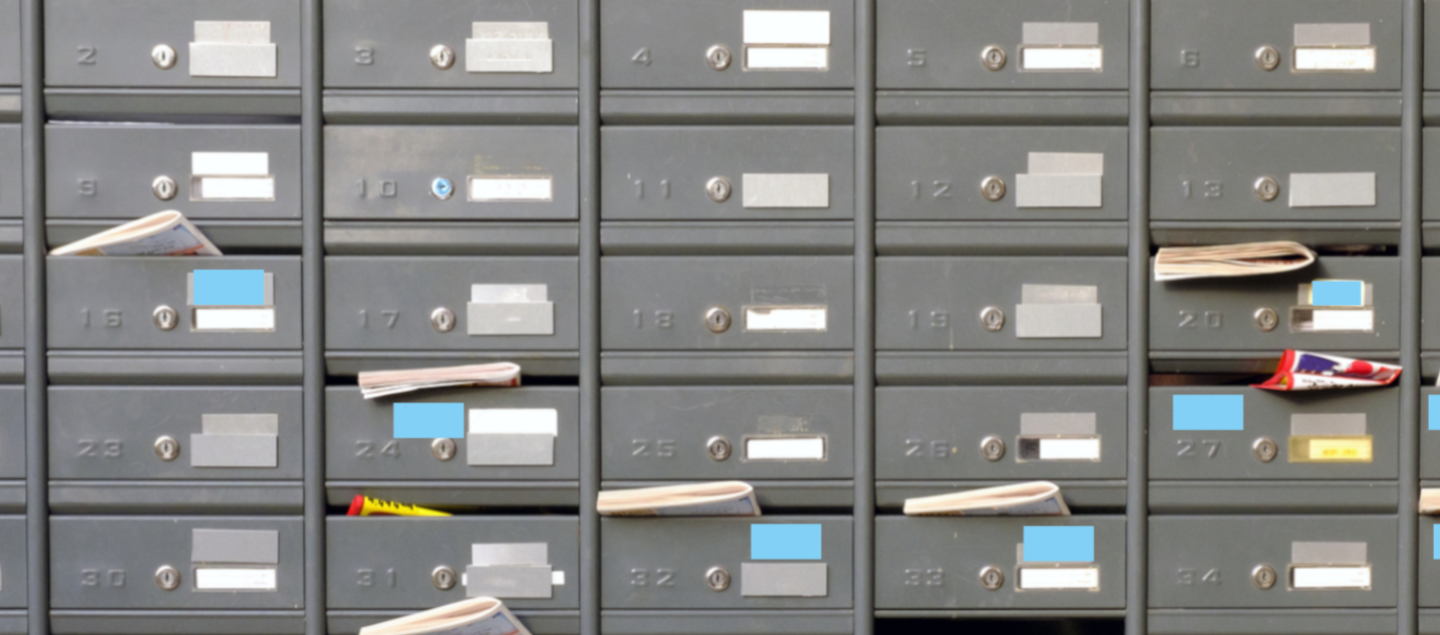
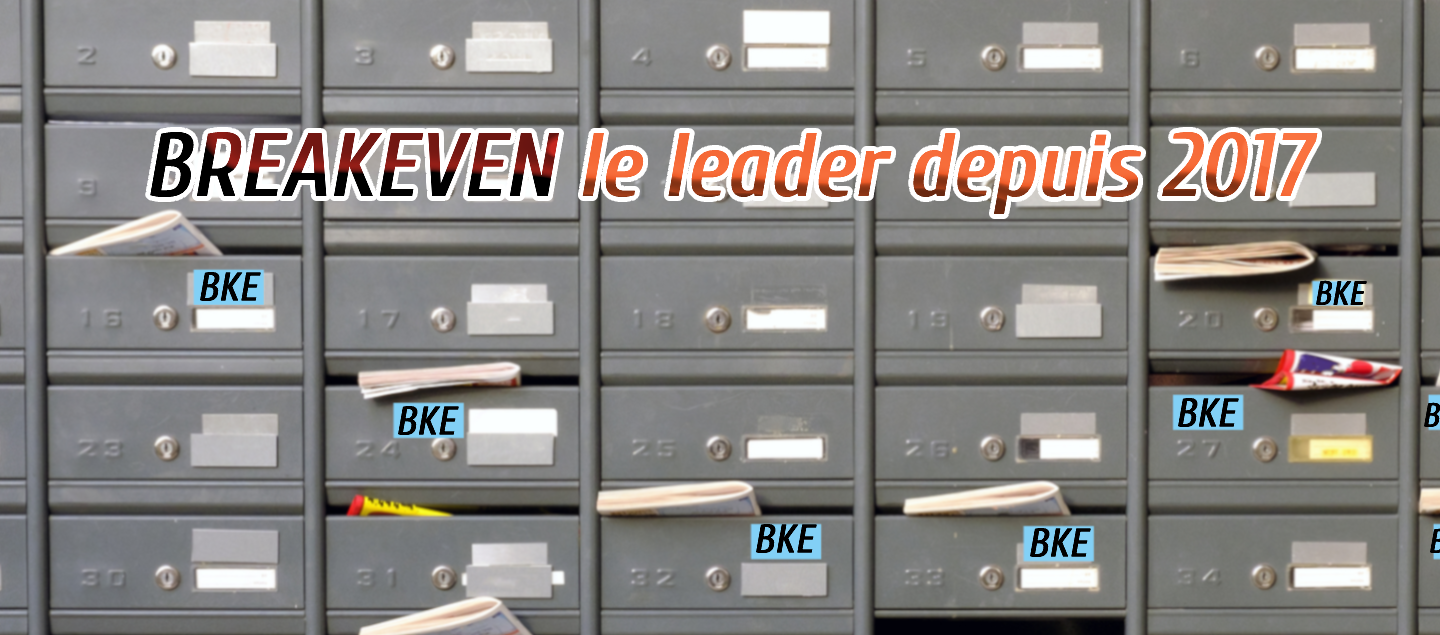
last today

diff --git a/index.html b/index.html
@@ -66,7 +66,7 @@
                 <ion-icon name="menu-outline" aria-hidden="true"></ion-icon>
             </button>
 
-            <a href="#" class="btn btn-primary">Nous contacter</a>
+            <a href="mailto:contact@breakeven.ma" class="btn btn-primary">Nous contacter</a>
 
             <div class="overlay" data-nav-toggler data-overlay></div>
 
@@ -83,19 +83,19 @@
                 <div class="mySlides fade">
                     <!-- <div class="numbertext">1 / 3</div> -->
                     <img src="./assets/images/slide1.png" style="width:100%">
-                    <div class="text">Breakeven.ma</div>
+                    <!-- <div class="text">Breakeven.ma</div> -->
                 </div>
 
                 <div class="mySlides fade">
                     <!-- <div class="numbertext">2 / 3</div> -->
                     <img src="./assets/images/slide2.png" style="width:100%">
-                    <div class="text">1ére distributeur de flayer au maroc</div>
+                    <!-- <div class="text">1ére distributeur de flayer au maroc</div> -->
                 </div>
 
                 <div class="mySlides fade">
                     <!-- <div class="numbertext">3 / 3</div> -->
                     <img src="./assets/images/slide3.png" style="width:100%">
-                    <div class="text">Couvre tout le royaume</div>
+                    <!-- <div class="text">Couvre tout le royaume</div> -->
                 </div>
 
             </div>
@@ -126,7 +126,7 @@
                             présent sur le marché Marocain depuis 2017.
                         </p>
 
-                        <button class="btn btn-secondary"><a href="mailto:medmakhtout@gmail.com">Commencer</a></button>
+                        <button class="btn btn-secondary"><a href="mailto:contact@breakeven.ma">Nous contacter</a></button>
 
                     </div>
 
@@ -187,7 +187,7 @@
                                 </h3>
 
                                 <p class="card-text">
-                                    Vous disposez d'un fichier prêt à l'impression et êtes à la recherche d'un imprimeur
+                                    Vous disposez d'un fichier prêt à l'impression et êtes-vous à la recherche d'un imprimeur
                                     de qualité?.
                                 </p>
 
@@ -726,6 +726,39 @@
                                     </a>
 
                                 </div> -->
+
+                            </div>
+                        </li>
+
+                        <li>
+                            <div class="project-card">
+
+                                <figure class="card-banner img-holder" style="--width: 615; --height: 391;">
+                                    <img src="./assets/images/partenaires/alomran.png" width="390" height="391"
+                                        loading="lazy" alt="project 1" class="img-cover">
+                                </figure>
+
+                            </div>
+                        </li>
+
+                        <li>
+                            <div class="project-card">
+
+                                <figure class="card-banner img-holder" style="--width: 615; --height: 391;">
+                                    <img src="./assets/images/partenaires/grpscolaire.png" width="390" height="391"
+                                        loading="lazy" alt="project 1" class="img-cover">
+                                </figure>
+
+                            </div>
+                        </li>
+
+                        <li>
+                            <div class="project-card">
+
+                                <figure class="card-banner img-holder" style="--width: 615; --height: 391;">
+                                    <img src="./assets/images/partenaires/addoha.png" width="390" height="391"
+                                        loading="lazy" alt="project 1" class="img-cover">
+                                </figure>
 
                             </div>
                         </li>
